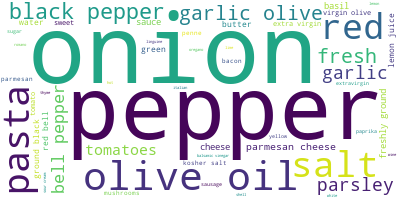
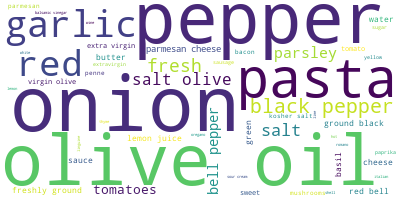
Improved sql queries with View method

diff --git a/web-portal/templates/index.html b/web-portal/templates/index.html
@@ -23,7 +23,7 @@
                             <div class="form-check form-switch">
                                 <input class="form-check-input" name="exact_search" type="checkbox" id="flexSwitchCheckDefault" value="1">
                                 <input class="form-check-input" name="exact_search" type="hidden" id="flexSwitchCheckDefault" value="0">
-                                <label class="form-check-label" for="flexSwitchCheckDefault">recipe name exact match</label>
+                                <label class="form-check-label" for="flexSwitchCheckDefault">Exact Search</label>
                             </div>
                         </div> 
                         <div class="col">
@@ -42,20 +42,29 @@
                     </tr>
                     {% for _, row in resultDetails.iterrows() %}
                     <tr>
-                        <td>{{row['recipe_id']}}</td>
-                        <td>{{row['recipe_name']}}</td>
-                        <td>{{row['ner_name']}}</td>
+                        <td>{{row['ID']}}</td>
+                        <td>{{row['Recipes']}}</td>
+                        <td>{{row['Ingredients']}}</td>
                     </tr>
                     {% endfor %}
                 </table>
             </div>
         </div>
         <div class="column">
+            <div class="search_result">
+                <p>Results: </p>
+                <br>
+                <p>We were looking for: {{summary[0]}}</p>
+                <p>Number of recipes: {{ summary[1] }}</p>
+                <p>Recipe with max number of ingredients: {{ summary[2] }}</p>
+                <p>Recipe with min number of ingredients: {{ summary[3] }}</p>
+                
+            </div>
             <br>
             <img src="{{ url_for('static', filename='images/graph.png')}}" width=500>
-            <br></br>
+            <br>
             <img src="{{ url_for('static', filename='images/sample1.jpg')}}" width=500>
-            <br></br>
+            <br>
             <img src="{{ url_for('static', filename='images/sample2.jpg')}}" width=500>
         </div>
     </div>

diff --git a/web-portal/templates/searchResult.html b/web-portal/templates/searchResult.html
@@ -42,9 +42,9 @@
                     </tr>
                     {% for _, row in resultDetails.iterrows() %}
                     <tr>
-                        <td>{{row['recipe_id']}}</td>
-                        <td>{{row['recipe_name']}}</td>
-                        <td>{{row['ner_name']}}</td>
+                        <td>{{row['ID']}}</td>
+                        <td>{{row['Recipes']}}</td>
+                        <td>{{row['Ingredients']}}</td>
                     </tr>
                     {% endfor %}
                 </table>

diff --git a/web-portal/appfunctions.py b/web-portal/appfunctions.py
@@ -6,11 +6,39 @@
 
 import os
 import sqlite3
+import numpy as np
 import pandas as pd
 from PIL import Image
 from wordcloud import WordCloud
+import matplotlib.pyplot as plt
+
 
 currentDirectory = os.path.dirname(os.path.abspath(__file__))
+
+def DBInitializer():
+
+    #Inputs: None ()
+    #Output: None (make views/index for DB, view name:view_table1)
+
+    connection = sqlite3.connect(currentDirectory + "\database\\\\recipe.db")
+    cursor = connection.cursor()
+
+    query1 = f"""CREATE INDEX IF NOT EXISTS iNer ON ner(ID);"""
+    cursor.execute(query1)
+
+    query2 = f"""CREATE INDEX IF NOT EXISTS iRecipe ON recipe(ID);"""
+    cursor.execute(query2)
+
+    query3 = f"""CREATE INDEX IF NOT EXISTS iStep ON step(ID);"""
+    cursor.execute(query3)
+
+    query4 = f"""CREATE VIEW IF NOT EXISTS view_table1 AS
+                SELECT R.ID, R.tag_value AS Recipes, N.tag_value AS Ingredients 
+                FROM recipe R 
+                JOIN recipe_ner RN ON R.ID = RN.recipe_id
+                JOIN ner N ON RN.ner_id = N.ID;"""
+    cursor.execute(query4)
+
 
 def queryOnRecipe(searched_recipe, exact_search):
     
@@ -18,20 +46,16 @@ def queryOnRecipe(searched_recipe, exact_search):
     #Output: list of tuples as result, grouped dataframe on recipes 
     
     if exact_search == '1':
-        query = f"""SELECT R.ID, R.tag_value, N.tag_value 
-                FROM recipe R 
-                JOIN recipe_ner RN ON R.ID = RN.recipe_id
-                JOIN ner N ON RN.ner_id = N.ID
-                WHERE R.tag_value LIKE '%{searched_recipe}%';"""
+        query = f"""SELECT *
+                FROM view_table1
+                WHERE Recipes LIKE '%{searched_recipe}%';"""
     else:
-        query = f"""SELECT R.ID, R.tag_value, N.tag_value 
-                FROM recipe R 
-                JOIN recipe_ner RN ON R.ID = RN.recipe_id
-                JOIN ner N ON RN.ner_id = N.ID
-                WHERE R.tag_value LIKE '%{searched_recipe.split(' ')[0]}%'"""
+        query = f"""SELECT *
+                FROM view_table1
+                WHERE Recipes LIKE '%{searched_recipe.split(' ')[0]}%'"""
         if len(searched_recipe.split(' ')) > 1:
             for i in searched_recipe.split(' ')[1:]:
-                query += f""" AND R.tag_value LIKE '%{i}%'"""
+                query += f""" AND Recipes LIKE '%{i}%'"""
         query += """;"""
 
     print(query)
@@ -39,8 +63,9 @@ def queryOnRecipe(searched_recipe, exact_search):
     cursor = connection.cursor()
     resultValue = cursor.execute(query)
     result = resultValue.fetchall()
-    df = pd.DataFrame(result, columns=['recipe_id', 'recipe_name', 'ner_name'])
-    df = df.groupby(['recipe_id', 'recipe_name'])['ner_name'].apply(list).reset_index()
+    df = pd.DataFrame(result, columns=['ID', 'Recipes', 'Ingredients'])
+    df = df.groupby(['ID', 'Recipes'])['Ingredients'].apply(list).reset_index()
+    
     return result, df
 
 
@@ -52,50 +77,68 @@ def queryOnRecipeNer(searched_recipe, searched_ner, exact_search):
     # generate first query to find recipe ID match criteria
 
     if exact_search == '1':
-        query1 = f"""SELECT R.ID 
-                FROM recipe R 
-                WHERE R.tag_value LIKE '%{searched_recipe}%'"""
+        query1 = f"""SELECT ID 
+                FROM view_table1 
+                WHERE Recipes LIKE '%{searched_recipe}%'"""
     else:
-        query1 = f"""SELECT R.ID 
-                FROM recipe R 
-                WHERE R.tag_value LIKE '%{searched_recipe.split(' ')[0]}%'"""
+        query1 = f"""SELECT ID 
+                FROM view_table1 
+                WHERE Recipes LIKE '%{searched_recipe.split(' ')[0]}%'"""
         if len(searched_recipe.split(' ')) > 1:
             for i in searched_recipe.split(' ')[1:]:
-                query1 += f""" AND R.tag_value LIKE '%{i}%'"""
+                query1 += f""" AND Recipes LIKE '%{i}%'"""
     
-    query1 += f''' INTERSECT
-                SELECT RN.recipe_id
-                FROM recipe_ner RN
-                JOIN ner N ON RN.ner_id = N.ID
-                WHERE N.tag_value LIKE '%{searched_ner}%'
+    query1 += f'''
+                AND Ingredients LIKE '%{searched_ner}%' ;
                 '''
-    #if len(searched_ner.split(' ')) > 1:
-    #    for i in searched_ner.split(' ')[1:]:
-    #        query1 += f"""AND N.tag_value LIKE '%{i}%'"""
-
-    print(query1)
+    
     connection = sqlite3.connect(currentDirectory + "\database\\\\recipe.db")
     cursor = connection.cursor()
+    resultValue1 = cursor.execute(query1)
+    result1 = resultValue1.fetchall()
+    result1 = tuple(sum(result1, ()))
 
     # generate second query
-    query2 = f"""SELECT R.ID, R.tag_value, N.tag_value 
-                FROM recipe R 
-                JOIN recipe_ner RN ON R.ID = RN.recipe_id
-                JOIN ner N ON RN.ner_id = N.ID
-                WHERE R.ID IN ({query1});"""
+    query2 = f"""SELECT *
+                FROM view_table1 
+                WHERE ID IN {result1};"""
+
     print(query2)
 
     # generate final results
+    cursor = connection.cursor()
     resultValue2 = cursor.execute(query2)
     result2 = resultValue2.fetchall()
-
-    df = pd.DataFrame(result2, columns=['recipe_id', 'recipe_name', 'ner_name'])
-    df = df.groupby(['recipe_id', 'recipe_name'])['ner_name'].apply(list).reset_index()
+    df = pd.DataFrame(result2, columns=['ID', 'Recipes', 'Ingredients'])
+    df = df.groupby(['ID', 'Recipes'])['Ingredients'].apply(list).reset_index()
+    
     return result2, df
 
 
-# For creating word clouds, I used WordCloud library which was imported before.
+def searchsummary(l, df):
+
+    # a function for processing dataframe. output is a list of items as follow:
+    # 0: what we were looking for
+    # 1: Number of found recipes
+    # 2: recipe with max ingredients
+    # 3: recipe with min ingredients
+    
+    summary = []
+    #0
+    summary.append(l)
+    #1
+    summary.append(df.shape[0])
+    field_length = df['Ingredients'].astype(str).map(len)
+    #2
+    summary.append(df.loc[field_length.argmax(), 'ID'])
+    #3
+    summary.append(df.loc[field_length.argmin(), 'ID'])
+    return summary
+
+
 def minimal_wordcloud(result, column):
+    # For creating word clouds, I used WordCloud library which was imported before.
+
     """
     Generate a simple wordcloud similar to: 
     https://www.kaggle.com/paultimothymooney/explore-recipe-nlg-dataset/data.
@@ -103,6 +146,7 @@ def minimal_wordcloud(result, column):
     """
     text = " ".join(row[column] for row in result)
     print(text[:100])
-    wordcloud = WordCloud(background_color="white").generate(text)
-    image = wordcloud.to_image()
-    image.save("static/images/graph.png", "")
+    if len(text) > 0:
+        wordcloud = WordCloud(background_color="white").generate(text)
+        image = wordcloud.to_image()
+        image.save("static/images/graph.png", "")

diff --git a/web-portal/app.py b/web-portal/app.py
@@ -6,10 +6,15 @@ from wtforms import StringField, SubmitField
 from wtforms.validators import DataRequired
 from appfunctions import *
 import pandas as pd
+import time
+from jinja2 import Template
+
 
 # Create a Flask instance
 app = Flask(__name__)
 
+#make view of database
+DBInitializer()
 
 @app.route('/', methods=['POST', 'GET'])
 def index():
@@ -18,13 +23,17 @@ def index():
         searched_recipe = request.form['searched_recipe']
         exact = request.form['exact_search']
         searched_ner = request.form['searched_ner']
+        start = time.time()
         if len(searched_ner):
             result, df = queryOnRecipeNer(searched_recipe, searched_ner, exact)
         else:    
             result, df = queryOnRecipe(searched_recipe, exact)
+        end = time.time()
+        print('TIME ELAPSED for running the query: ', end - start)
         minimal_wordcloud(result, 2)
-        return render_template('searchResult.html', resultDetails = df)
-    return render_template('index.html', resultDetails = df)
+        summary = searchsummary([searched_recipe, searched_ner], df)
+        return render_template('index.html', resultDetails = df, summary=summary)
+    return render_template('index.html', resultDetails = df, summary=None)
 
 @app.after_request
 def add_header(response):
